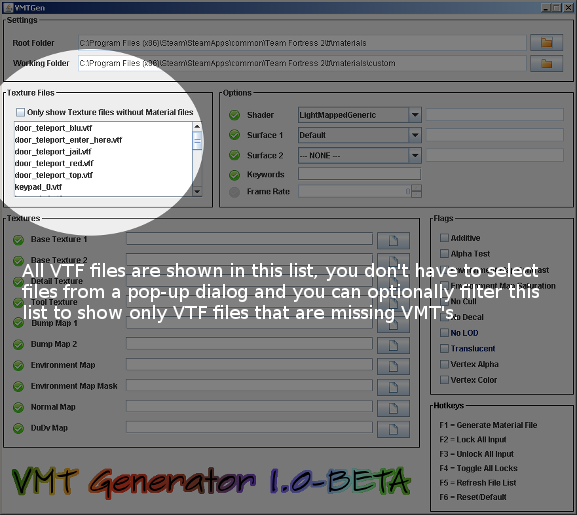
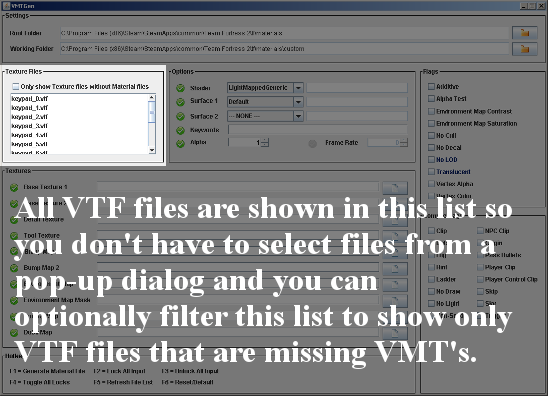
* Fixed a typo in the animation code, animations should work now * Updated doc pics with new GUI + Added automatic keyword generation (based on file name)

Changed region(s): [[0.0, 0.0, 1.0, 1.0]]

diff --git a/src/main/java/com/xyphos/vmtgen/GUI.java b/src/main/java/com/xyphos/vmtgen/GUI.java
@@ -1346,7 +1346,7 @@ public class GUI extends javax.swing.JFrame implements KeyEventDispatcher {
         out.print( "\t\t\"animatedTexture\"\r\n" );
         out.print( "\t\t{\r\n" );
         out.print( "\t\t\t\"$animatedTextureVar\"\t\t\"$baseTexture\"\r\n" );
-        out.print( "\t\t\t\"$animatedTextureFrameVar\"\t\t\"$frame\"\r\n" );
+        out.print( "\t\t\t\"$animatedTextureFrameNumVar\"\t\"$frame\"\r\n" );
         out.printf( "\t\t\t\"$animatedTextureFrameRate\"\t%s\r\n", file );
         out.print( "\t\t}\r\n" );
         out.print( "\t}\r\n" );
@@ -1896,6 +1896,10 @@ public class GUI extends javax.swing.JFrame implements KeyEventDispatcher {
   private void lstFilesValueChanged(javax.swing.event.ListSelectionEvent evt) {//GEN-FIRST:event_lstFilesValueChanged
     if ( !evt.getValueIsAdjusting() && ( -1 != lstFiles.getSelectedIndex() ) ) {
       String file = lstFiles.getSelectedValue().toString();
+
+      // set keywords based on file name
+      SetKeywords( FilenameUtils.getBaseName( file ).replace( "_", "," ).replace( "-", "," ) );
+
       String path = FilenameUtils.separatorsToUnix(
         FilenameUtils.concat( basePath,
                               FilenameUtils.getBaseName( file ) ) )
